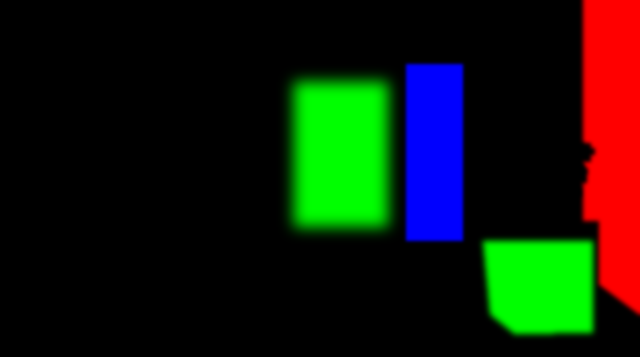
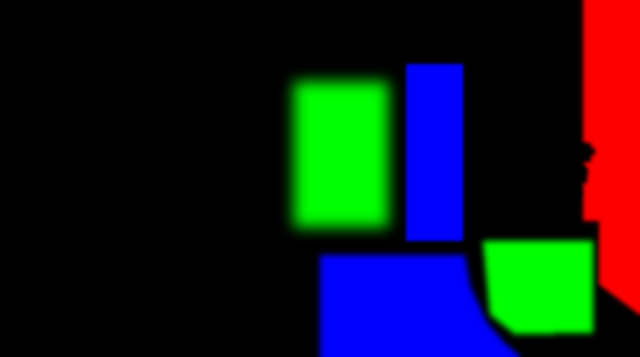
Bandeau d'accueil animé : eau ralentie, comptoir et sol plus vivants (#300)
L'eau coule plus lentement et s'efface avant la grille au sol, les ombres
bougent davantage sur le comptoir et une lumière mouvante apparaît sur le
sol devant l'accueil. Page d'accueil uniquement, ordinateur et tablette.

Claude-Session: https://claude.ai/code/session_01XErWwDGscpTZJ3EaDi9U34

Changed region(s): [[0.4688, 0.6779, 0.8438, 1.0]]

diff --git a/js/home-hero-water.js b/js/home-hero-water.js
@@ -33,18 +33,19 @@
 " vec3 m=texture2D(uMask,uv).rgb;float t=uT;vec2 q=uv*vec2(ir,1.);vec2 d=vec2(0.);vec3 lit=vec3(1.),cw=vec3(0.);float k=0.,fl2=0.;",
 " if(m.r>.004){",
 "  k=m.r*smoothstep(.06,.15,uv.y);",
+  "  float yb=.80+(uv.x-.933)*1.55;k*=1.-smoothstep(yb-.12,yb-.04,uv.y);",
 // ombres sur l'eau : la lumiere de fond va et vient
 "  float ph=fbm(q*2.6+7.)*8.+q.y*2.5;",
 "  vec2 u2=uv+uAmp*vec2(wind(t,ph)*.0065,wind(t*1.13+4.,ph*1.3+2.)*.0033);u2.x=max(u2.x,.9125);",
 "  vec3 base=texture2D(uSoft,u2).rgb;float lb=dot(base,vec3(.333));",
 // vaguelettes qui descendent
-"  float y1=q.y-t*.19,wx=q.x*24.;",
+"  float y1=q.y-t*.105,wx=q.x*24.;",
 "  float r1=n(vec2(wx+1.3*n(vec2(q.x*7.,y1*5.)),y1*64.));",
 "  float r2=n(vec2(wx+1.3*n(vec2(q.x*7.,(y1+.004)*5.)),(y1+.004)*64.));",
 "  float gy=(r2-r1)/.004;",
 "  vec2 dw=vec2(0.,gy*.00003*uAmp);",
 // la texture de l'eau elle-meme coule vers le bas (deux passes fondues)
-"  float p1=fract(t/1.1),p2=fract(t/1.1+.5),w=abs(1.-2.*p1);",
+"  float p1=fract(t/2.),p2=fract(t/2.+.5),w=abs(1.-2.*p1);",
 "  vec2 a1=uv+dw-vec2(0.,(p1-.5)*.075),a2=uv+dw-vec2(0.,(p2-.5)*.075);",
 "  vec3 s1=texture2D(uSoft,a1).rgb,s2=texture2D(uSoft,a2).rgb;",
 "  vec3 d1=(texture2D(uImg,a1).rgb-s1)*texture2D(uMask,a1).r*clamp((lb+.03)/(dot(s1,vec3(.333))+.03),.5,1.6);",
@@ -52,20 +53,30 @@
 "  vec3 det=(d1*(1.-w)+d2*w)/sqrt(w*w+(1.-w)*(1.-w));",
 "  cw=base+det*1.1;",
 // filets brillants qui tombent
-"  float f1=n(vec2(q.x*170.,(q.y-t*.33)*12.)+3.7),f2=n(vec2(q.x*110.+40.,(q.y-t*.23)*7.)+1.2);",
+"  float f1=n(vec2(q.x*170.,(q.y-t*.14)*9.)+3.7),f2=n(vec2(q.x*110.+40.,(q.y-t*.095)*5.)+1.2);",
 "  float lum2=.3+.7*smoothstep(.3,.8,lb);",
-"  cw+=vec3(1.,.97,.9)*(pow(f1,5.)*.9+pow(f2,6.)*.6)*uAmp*.13*lum2;",
+"  cw+=vec3(1.,.97,.9)*(pow(f1,5.)*.9+pow(f2,6.)*.6)*uAmp*.075*lum2;",
 "  cw+=vec3(1.,.97,.9)*clamp(gy*.012,-.6,1.)*uAmp*.035*(.4+.6*lb);",
-"  cw*=1.+uAmp*.06*(n(vec2(q.x*5.,(q.y-t*.14)*4.))-.5);",
+"  cw*=1.+uAmp*.06*(n(vec2(q.x*5.,(q.y-t*.07)*4.))-.5);",
 " }",
 " if(m.g>.004){",
 "  float ph=fbm(q*2.2)*9.+q.x*2.;",
 "  float fl=sin(t*4.3+n(q*13.)*18.)*(.5+.5*sin(t*.31+ph*.2));",
 "  vec2 ds=uAmp*vec2(wind(t,ph)*.011+fl*.0014,wind(t*1.13+4.,ph*1.3+2.)*.0052+fl*.0008);",
-"  vec2 u3=uv+ds;if(uv.x<.7){u3=clamp(u3,vec2(.445,.15),vec2(.614,.69));}else{u3=clamp(u3,vec2(.757,.676),vec2(.925,.935));}",
+"  if(uv.x>.7)ds*=2.3;",
+  "  vec2 u3=uv+ds;if(uv.x<.7){u3=clamp(u3,vec2(.445,.15),vec2(.614,.69));}else{u3=clamp(u3,vec2(.757,.676),vec2(.925,.935));}",
 "  lit=mix(lit,ratio(uv,u3),m.g);",
+  "  if(uv.x>.7){float dq=fbm(vec2(q.x*8.+wind(t,ph)*.55+q.y*3.,q.y*6.5+wind(t*1.13+4.,ph*1.3+2.)*.35)+5.);lit*=1.+m.g*uAmp*(smoothstep(.34,.7,dq)-.5)*.2;}",
 " }",
-" if(m.b>.004){",
+" if(m.b>.004&&uv.y>=.688){",
+  "  float ph=fbm(q*1.8+3.)*6.+q.x*2.;",
+  "  float wa=wind(t,ph),wb=wind(t*1.13+4.,ph*1.3+2.);",
+  "  vec2 u4=clamp(uv+uAmp*vec2(wa*.009,wb*.004),vec2(.5,.71),vec2(.72,1.));",
+  "  lit=mix(lit,ratio(uv,u4),m.b*step(uv.x,.72));",
+  "  float dp=fbm(vec2(q.x*6.5+wa*.4+q.y*2.5,q.y*19.+wb*.3)+11.);",
+  "  lit*=1.+m.b*uAmp*(smoothstep(.36,.68,dp)-.5)*.3;",
+  " }",
+  " if(m.b>.004&&uv.y<.688){",
 "  float ph=fbm(q*3.)*4.+q.y*2.5;",
 "  float a=wind(t*.55,ph),b=wind(t*.6+2.,ph*1.4+1.);",
 "  float fl=sin(t*2.4+n(q*38.)*25.)*(.55+.45*sin(t*.27+ph*.3));",
@@ -135,7 +146,7 @@
   function init() {
     if (starting || ready || failed) return;
     starting = true;
-    Promise.all([decoded(), load(BASE + "accueil_mur_eau_masque.png"), load(BASE + "accueil_mur_eau_lumiere.webp")]).then(function (r) {
+    Promise.all([decoded(), load(BASE + "accueil_mur_eau_masque.png?v=2"), load(BASE + "accueil_mur_eau_lumiere.webp")]).then(function (r) {
       cv = document.createElement("canvas");
       cv.className = "home-hero-water";
       cv.setAttribute("aria-hidden", "true");

diff --git a/index.html b/index.html
@@ -741,6 +741,6 @@
     <script src="js/night-desktop-cards.js?v=20260920b"></script>
     <script src="/js/home-simulator.js" defer></script>
     <script src="/js/time-entry.js" defer></script>
-    <script src="/js/home-hero-water.js?v=20261111" defer></script>
+    <script src="/js/home-hero-water.js?v=20261111b" defer></script>
   </body>
 </html>
